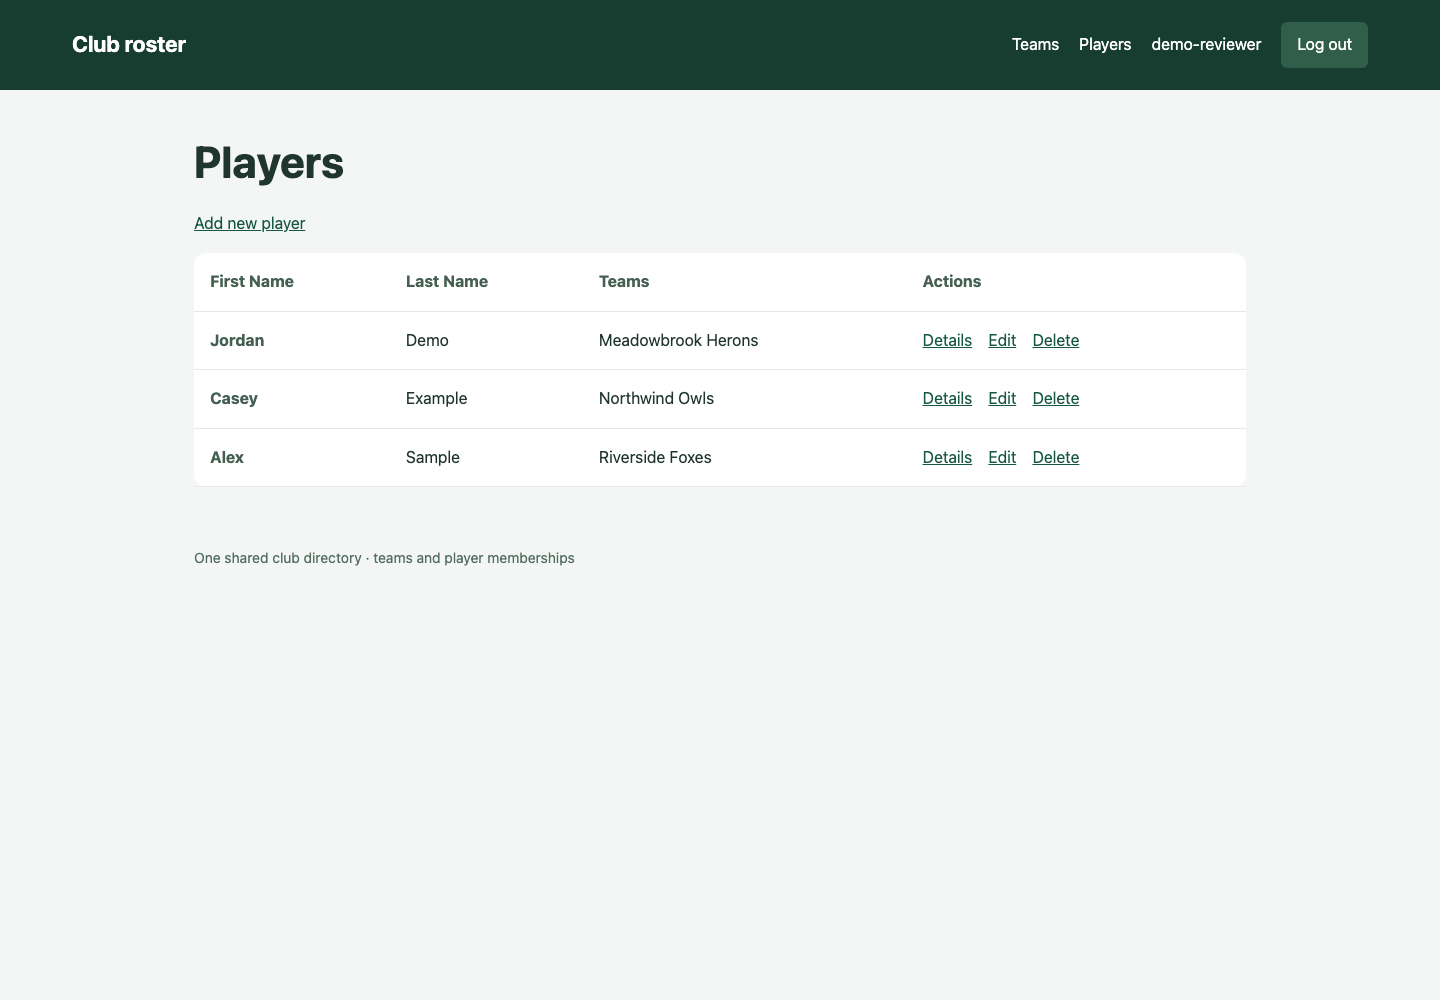
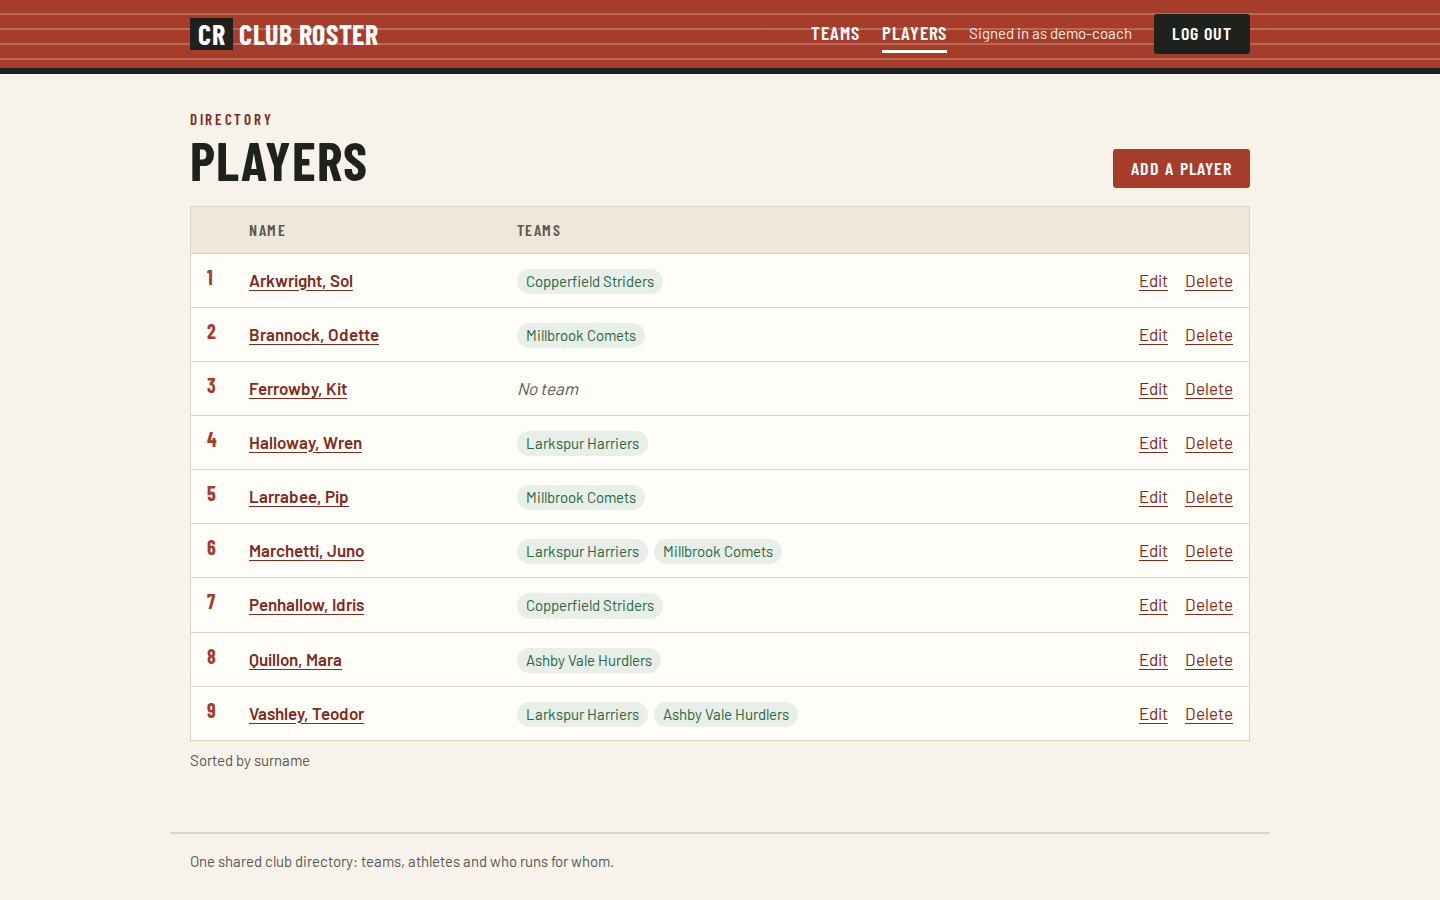
Rewrite the README around the demo league and refresh screenshots
Documents both run paths (Compose and Python 3.12), the seed_demo
command, environment variables, the view/model layout, design choices
and known limits. Screenshots were retaken in headless Chromium against
the fictional seed data at 1440x900 and 390x844.

diff --git a/README.md b/README.md
@@ -1,68 +1,102 @@
 # Club roster
 
-A Django application for keeping a shared directory of teams and players. Register an account, create teams, add players and assign each player to one or more teams. Despite the repository's `-api` name, the implemented interface is server-rendered HTML, not a REST or GraphQL API.
+A small Django app for keeping one shared directory of an athletics league's teams and the players who run for them. Signed-in users create teams, add players, and assign each player to any number of teams, including none. Despite the `-api` in the folder name, the interface is server-rendered HTML; there is no REST or GraphQL endpoint.
 
-![Player directory with three synthetic sample players](docs/screenshots/players.png)
+![League overview with team, player and unassigned counts](docs/screenshots/overview.png)
 
-The screenshot shows the actual Django-rendered player view with synthetic data in an isolated in-memory database. It is a desktop presentation check, not an end-to-end browser test.
+## What it does
 
-## Try the workflow
+- **Teams:** city and mascot, with a detail page listing the roster sorted by surname.
+- **Players:** first and last name, plus team memberships picked from labelled checkboxes. A player with no team is shown as such rather than rejected.
+- **Overview:** live counts of teams, players and players without a team.
+- **Accounts:** sign-up, log in, and log out by CSRF-protected POST. Every directory page requires a login.
+- **Feedback:** a confirmation message after each save or delete, an error summary on invalid forms, and empty states with a next step.
 
-Use Python 3.9+ in an isolated environment. Requirements retain the original Django 4.2 pin; this review did not migrate the framework.
+![Player directory, sorted by surname, with team tags](docs/screenshots/players.png)
 
-```sh
-git clone <repository-url>
-cd athletics-league-api
-python -m venv .venv
-source .venv/bin/activate
-python -m pip install -r requirements.txt
-python manage.py migrate
-python manage.py runserver
-```
+| Editing a player | Phone layout |
+| --- | --- |
+| ![Player form with team checkboxes](docs/screenshots/player-form.png) | ![Player list collapsed into labelled rows on a 390px screen](docs/screenshots/players-mobile.png) |
 
-Open [the application](http://127.0.0.1:8000/), choose **Create account**, then add a team and a player. Team details show its roster; player details show all team memberships. No seed user, password or sample data is installed automatically.
+All names in the screenshots come from `seed_demo` and are invented.
 
-For the container workflow:
+## Run it with Docker Compose
 
 ```sh
 cp .env.example .env
 docker compose up --build
 ```
 
-Compose runs migrations before starting Django, mounts the source at the image's actual `/app` directory and binds port 8000 to loopback. SQLite data lives in the ignored local `db.sqlite3` file. For direct Python runs, export settings in your shell; Django does not automatically load `.env`.
+In a second terminal, load the demo league and create yourself an account:
+
+```sh
+docker compose exec web python manage.py seed_demo
+```
+
+Open http://127.0.0.1:8000/, choose **Create account**, and log in. Compose applies migrations on start, mounts the source into `/app` so template and code edits reload, and binds port 8000 to loopback only. The SQLite file `db.sqlite3` is written into the project folder and ignored by Git. The container runs as an unprivileged user (uid 1000).
+
+## Run it with Python
+
+The runtime is pinned to Python 3.12 (`.python-version`).
+
+```sh
+python3.12 -m venv .venv
+source .venv/bin/activate
+python -m pip install -r requirements-dev.txt
+python manage.py migrate
+python manage.py seed_demo
+python manage.py runserver
+```
+
+Django does not read `.env` by itself; export the variables in your shell if you need values other than the defaults.
+
+| Variable | Default | Purpose |
+| --- | --- | --- |
+| `DJANGO_DEBUG` | `1` | `0` turns debug off and then requires a secret key |
+| `DJANGO_SECRET_KEY` | random per start when debugging | Signing key. Set a private value for anything shared |
+| `DJANGO_ALLOWED_HOSTS` | `localhost,127.0.0.1,[::1]` | Comma-separated host names |
 
 ## How it fits together
 
 ```mermaid
 flowchart LR
-    Browser --> Forms[Django forms and class-based views]
-    Forms --> Models[Team and Player models]
-    Models --> SQLite[(SQLite)]
-    Forms --> Templates[HTML templates]
+    Browser -->|GET / POST + CSRF| URLs[sports/urls.py]
+    URLs --> Views[Class-based views<br/>login required]
+    Views --> Forms[ModelForms]
+    Views --> Models[Team and Player<br/>many-to-many]
+    Models --> SQLite[(db.sqlite3)]
+    Views --> Templates[templates/sports + static/sports/site.css]
 ```
 
-| Area | Implementation |
+| Path | Role |
 | --- | --- |
-| `sports/models.py` | Team, Player and their many-to-many memberships |
-| `sports/forms.py` | Model-backed create and edit forms |
-| `sports/views.py` | Login-protected CRUD, account signup and POST logout |
-| `templates/sports/` | Lists, details, forms and error pages |
-| `sports/tests.py` | Membership rendering, access checks, CSRF logout, errors and query regression |
+| `sports/models.py` | `Team`, `Player` and the optional many-to-many membership |
+| `sports/views.py` | CRUD views, overview counts, sign-up and sign-in, POST logout, 404/500 handlers |
+| `sports/forms.py` | Model forms; team membership uses checkboxes |
+| `sports/management/commands/seed_demo.py` | Idempotent fictional league: 4 clubs, 9 athletes, one without a team |
+| `templates/sports/` | Pages, shared form-error summary and pagination |
+| `sports/static/sports/site.css` | The whole visual design |
 
-`/team/` and `/player/` are the main lists. Player lists prefetch team memberships to avoid an extra query for every row. Logout uses a CSRF-protected POST; delete confirmation pages also require POST to remove an object.
+## Design notes
 
-## Local configuration and limits
+- **Queries stay flat.** The player list prefetches memberships, so a page costs two queries however many players it shows. A test pins that count. Both lists page at 25 rows.
+- **One template block.** Every page renders through a single `content` block. Access control lives in the views, not in template conditionals. An earlier version hid the login form from signed-in users and left them on a blank page.
+- **Look and feel.** The design borrows from a running track: clay-red header with lane lines, a scoreboard-style overview, and condensed Barlow headings over Barlow body text (Google Fonts, with system fallbacks). Every text colour pair meets WCAG AA contrast. The pages include a skip link, visible focus rings, `aria-current` navigation and a fieldset with a legend for team choices. On narrow screens, tables collapse into labelled rows.
+- **Admin.** Teams and players are registered in `/admin/` with search, for anyone who creates a superuser with `python manage.py createsuperuser`.
 
-Debug mode defaults on for local use and generates an ephemeral signing key unless `DJANGO_SECRET_KEY` is set. Set a private key before `DJANGO_DEBUG=0`; configure `DJANGO_ALLOWED_HOSTS` for a deliberate deployment. If a historical signing key was used in a deployment, rotate it there too. Removing a value from Git does not revoke existing credentials or clear other people's copies.
-
-All registered users share the same directory and can edit it. There are no per-club ownership rules, invitation controls or role-based permissions. Public signup is enabled. Treat this as a small local CRUD example until those rules and a deployment configuration are added. Large directories would also need pagination and search.
-
-Unused copied fonts were removed; the current UI uses system fonts and requires no CDN assets. No license file is present, so this README does not grant reuse rights.
-
-## Verification
+## Tests and lint
 
 ```sh
-python manage.py test sports
+python manage.py test sports   # 26 tests
+flake8                         # settings in setup.cfg; migrations excluded
 ```
 
-Eight focused tests cover anonymous redirects, player and team detail rendering, POST-only CSRF-protected logout, correct 404/500 statuses, and prefetched memberships. They passed using Django 4.2 in the isolated verification environment. Docker Compose configuration was parsed; the Docker image itself was not built or run.
+The tests cover login redirects, sign-up and sign-in behaviour for signed-in users, the CRUD flows, flash messages, form error markup, pagination, roster ordering, the query count, the 404/500 pages and the seed command.
+
+## Limits
+
+All registered users share and can edit the same directory. There are no per-club permissions, and public sign-up is open. Static files are served by Django's development server only, so a deployment with `DJANGO_DEBUG=0` needs a static-file server (for example `collectstatic` behind a web server). The app has no deployment configuration beyond this. Treat it as a local tool.
+
+## License
+
+MIT; see [LICENSE](LICENSE).
